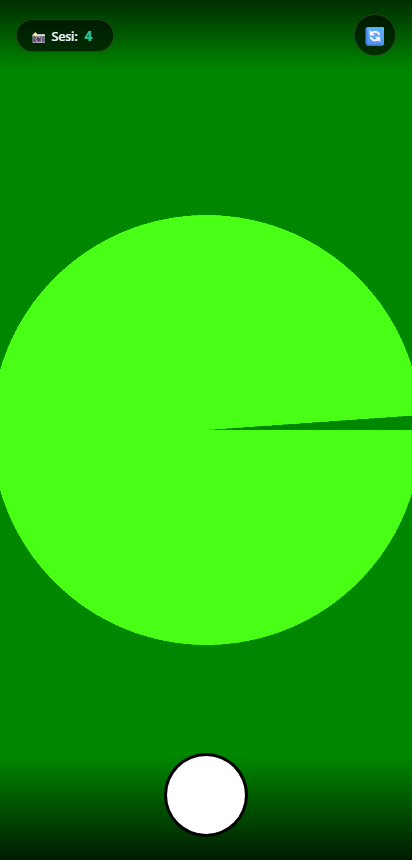
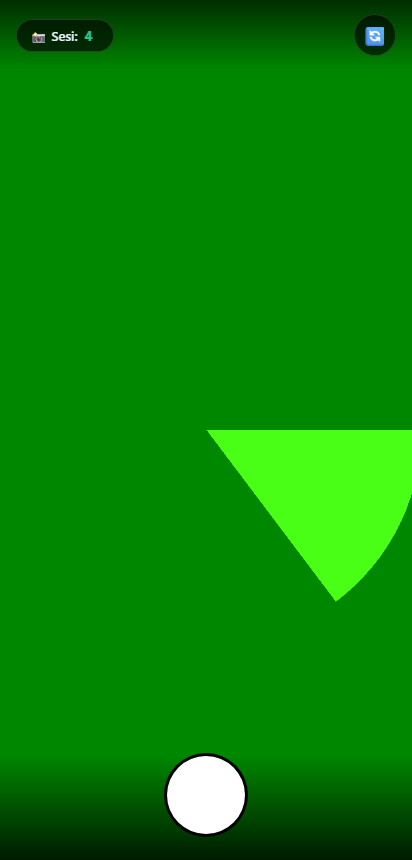
v2.0: pinch-to-zoom + tap-to-focus
- Pinch gesture drives MediaStreamTrack zoom constraint (graceful when unsupported)
- Single tap on preview = tap-to-focus (pointsOfInterest/focusMode) + visual focus ring
- Pointer-events tuned so taps pass through overlays to the live preview
- Android versionName 2.0 / versionCode 2
- Tests: 33 functional (incl. focus ring + safe zoom) + 21 stress, all green

diff --git a/android/app/src/main/assets/index.html b/android/app/src/main/assets/index.html
@@ -19,7 +19,7 @@
   #app{position:fixed;inset:0;display:flex;flex-direction:column}
 
   /* ---- Camera stage ---- */
-  #stage{position:relative;flex:1;background:#000;overflow:hidden}
+  #stage{position:relative;flex:1;background:#000;overflow:hidden;touch-action:none}
   #video,#shot{position:absolute;inset:0;width:100%;height:100%;object-fit:cover}
   #shot{display:none}
 
@@ -27,7 +27,8 @@
   #topbar{position:absolute;top:0;left:0;right:0;z-index:5;display:flex;
     justify-content:space-between;align-items:center;padding:14px 16px;
     padding-top:max(14px,env(safe-area-inset-top));
-    background:linear-gradient(#000a,transparent)}
+    background:linear-gradient(#000a,transparent);pointer-events:none}
+  #topbar button{pointer-events:auto}
   .pill{background:#0009;backdrop-filter:blur(6px);border:1px solid #ffffff22;
     border-radius:999px;padding:7px 13px;font-size:13px;font-weight:600;display:flex;
     align-items:center;gap:7px}
@@ -41,7 +42,8 @@
   #shutterRow{position:absolute;bottom:0;left:0;right:0;z-index:5;display:flex;
     align-items:center;justify-content:space-around;
     padding:0 24px 26px;padding-bottom:max(26px,env(safe-area-inset-bottom));
-    background:linear-gradient(transparent,#000c)}
+    background:linear-gradient(transparent,#000c);pointer-events:none}
+  #shutterRow button{pointer-events:auto}
   #shutter{width:78px;height:78px;border-radius:50%;background:#fff;border:5px solid #ffffff55;
     box-shadow:0 0 0 3px #000}
   #shutter:active{transform:scale(.9)}
@@ -51,6 +53,19 @@
   #flash{position:absolute;inset:0;background:#fff;opacity:0;z-index:8;pointer-events:none}
   #flash.fire{animation:fl .22s ease-out}
   @keyframes fl{0%{opacity:.85}100%{opacity:0}}
+
+  /* Tap-to-focus ring */
+  #focusRing{position:absolute;width:78px;height:78px;margin:-39px 0 0 -39px;z-index:6;
+    border:2px solid #fff;border-radius:50%;box-shadow:0 0 0 1px #0007;opacity:0;
+    pointer-events:none}
+  #focusRing.show{animation:fr .65s ease-out}
+  @keyframes fr{0%{opacity:0;transform:scale(1.6)}25%{opacity:1}60%{opacity:1;transform:scale(1)}100%{opacity:0}}
+
+  /* Zoom indicator */
+  #zoomInd{position:absolute;top:74px;left:50%;transform:translateX(-50%);z-index:6;
+    background:#000a;border:1px solid #ffffff22;border-radius:999px;padding:5px 12px;
+    font-size:13px;font-weight:700;color:#fff;opacity:0;pointer-events:none;transition:.15s}
+  #zoomInd.show{opacity:1}
 
   /* Toast */
   #toast{position:absolute;top:50%;left:50%;transform:translate(-50%,-50%) scale(.8);
@@ -99,6 +114,8 @@
   <div id="stage">
     <video id="video" autoplay playsinline muted></video>
     <canvas id="shot" hidden></canvas>
+    <div id="focusRing"></div>
+    <div id="zoomInd"></div>
     <div id="flash"></div>
     <div id="toast"></div>
 
@@ -139,7 +156,7 @@
   <div id="start">
     <div class="logo">📷</div>
     <h1>Snap &amp; Name</h1>
-    <p>Jepret aset → langsung kasih nama → simpan. Khusus stock opname biar ga ketuker file.</p>
+    <p>Jepret aset → langsung kasih nama → simpan. Khusus stock opname biar ga ketuker file.<br><span style="color:var(--muted)">Cubit layar untuk zoom · ketuk untuk fokus</span></p>
     <button id="startBtn">Nyalakan Kamera</button>
     <div class="err" id="startErr"></div>
     <div id="demoNote" style="color:#f4c84a;font-size:13px;max-width:300px"></div>
@@ -215,6 +232,7 @@ async function startCam(){
     track = stream.getVideoTracks()[0];
     $('#start').style.display='none';
     checkTorch();
+    initCamControls();
   }catch(e){
     $('#startErr').textContent='Kamera ga bisa dibuka: '+e.message+
       '. Pastikan izin kamera diizinkan.';
@@ -226,6 +244,78 @@ function checkTorch(){
   const caps = track && track.getCapabilities ? track.getCapabilities() : {};
   $('#torchBtn').style.display = (caps && caps.torch) ? 'flex' : 'none';
 }
+
+/* ---------- zoom & tap-to-focus (v2.0) ---------- */
+const focusRing=$('#focusRing'), zoomInd=$('#zoomInd');
+let zoomCap=null, curZoom=1, supportsFocusPoint=false;
+
+function initCamControls(){
+  const caps = track && track.getCapabilities ? track.getCapabilities() : {};
+  zoomCap = (caps && caps.zoom && caps.zoom.max>caps.zoom.min) ? caps.zoom : null;  // {min,max,step}
+  curZoom = (track.getSettings && track.getSettings().zoom) || (zoomCap ? zoomCap.min : 1);
+  supportsFocusPoint = !!(caps && (caps.focusMode || ('pointsOfInterest' in caps)));
+}
+
+let zoomIndT;
+function showZoom(){
+  zoomInd.textContent = curZoom.toFixed(1)+'x';
+  zoomInd.classList.add('show');
+  clearTimeout(zoomIndT); zoomIndT=setTimeout(()=>zoomInd.classList.remove('show'),900);
+}
+async function setZoom(z){
+  if(!zoomCap) return;
+  z = Math.min(zoomCap.max, Math.max(zoomCap.min, z));
+  if(Math.abs(z-curZoom)<1e-3) return;
+  curZoom = z;
+  try{ await track.applyConstraints({advanced:[{zoom:z}]}); showZoom(); }catch(e){}
+}
+
+async function focusAt(clientX, clientY){
+  const r = video.getBoundingClientRect();
+  // ring di titik tap (visual feedback selalu muncul)
+  focusRing.style.left = (clientX - r.left) + 'px';
+  focusRing.style.top  = (clientY - r.top) + 'px';
+  focusRing.classList.remove('show'); void focusRing.offsetWidth; focusRing.classList.add('show');
+  // coba fokus beneran kalau HP dukung (titik 0..1 + single-shot)
+  if(!track || !track.applyConstraints) return;
+  const x = Math.min(1, Math.max(0, (clientX - r.left)/r.width));
+  const y = Math.min(1, Math.max(0, (clientY - r.top)/r.height));
+  const tries = [
+    {advanced:[{focusMode:'single-shot', pointsOfInterest:[{x,y}]}]},
+    {advanced:[{pointsOfInterest:[{x,y}]}]},
+    {advanced:[{focusMode:'continuous'}]}
+  ];
+  for(const c of tries){ try{ await track.applyConstraints(c); break; }catch(e){} }
+}
+
+// Gesture di preview hidup: cubit (pinch) = zoom, satu tap = fokus.
+(function bindGestures(){
+  const pts = new Map();
+  let pinchStartDist=0, pinchStartZoom=1, pinching=false, tap=null;
+  const dist=()=>{ const a=[...pts.values()]; return Math.hypot(a[0].x-a[1].x, a[0].y-a[1].y); };
+  video.addEventListener('pointerdown', e=>{
+    pts.set(e.pointerId,{x:e.clientX,y:e.clientY});
+    if(pts.size===1){ tap={x:e.clientX,y:e.clientY,t:Date.now(),moved:false}; }
+    else if(pts.size===2){ pinching=true; tap=null; pinchStartDist=dist()||1; pinchStartZoom=curZoom; }
+  });
+  video.addEventListener('pointermove', e=>{
+    if(!pts.has(e.pointerId)) return;
+    const p=pts.get(e.pointerId);
+    if(tap && pts.size===1 && Math.hypot(e.clientX-tap.x, e.clientY-tap.y)>12) tap.moved=true;
+    p.x=e.clientX; p.y=e.clientY;
+    if(pinching && pts.size===2 && zoomCap){ setZoom(pinchStartZoom * (dist()/pinchStartDist)); }
+  });
+  function up(e){
+    pts.delete(e.pointerId);
+    if(pts.size<2) pinching=false;
+    if(pts.size===0){
+      if(tap && !tap.moved && (Date.now()-tap.t)<500) focusAt(tap.x, tap.y);
+      tap=null;
+    }
+  }
+  video.addEventListener('pointerup', up);
+  video.addEventListener('pointercancel', e=>{ pts.delete(e.pointerId); if(pts.size<2) pinching=false; tap=null; });
+})();
 
 $('#flipBtn').onclick = ()=>{ facing = facing==='environment'?'user':'environment'; torchOn=false; $('#torchBtn').classList.remove('on'); startCam(); };
 $('#torchBtn').onclick = async ()=>{

diff --git a/index.html b/index.html
@@ -19,7 +19,7 @@
   #app{position:fixed;inset:0;display:flex;flex-direction:column}
 
   /* ---- Camera stage ---- */
-  #stage{position:relative;flex:1;background:#000;overflow:hidden}
+  #stage{position:relative;flex:1;background:#000;overflow:hidden;touch-action:none}
   #video,#shot{position:absolute;inset:0;width:100%;height:100%;object-fit:cover}
   #shot{display:none}
 
@@ -27,7 +27,8 @@
   #topbar{position:absolute;top:0;left:0;right:0;z-index:5;display:flex;
     justify-content:space-between;align-items:center;padding:14px 16px;
     padding-top:max(14px,env(safe-area-inset-top));
-    background:linear-gradient(#000a,transparent)}
+    background:linear-gradient(#000a,transparent);pointer-events:none}
+  #topbar button{pointer-events:auto}
   .pill{background:#0009;backdrop-filter:blur(6px);border:1px solid #ffffff22;
     border-radius:999px;padding:7px 13px;font-size:13px;font-weight:600;display:flex;
     align-items:center;gap:7px}
@@ -41,7 +42,8 @@
   #shutterRow{position:absolute;bottom:0;left:0;right:0;z-index:5;display:flex;
     align-items:center;justify-content:space-around;
     padding:0 24px 26px;padding-bottom:max(26px,env(safe-area-inset-bottom));
-    background:linear-gradient(transparent,#000c)}
+    background:linear-gradient(transparent,#000c);pointer-events:none}
+  #shutterRow button{pointer-events:auto}
   #shutter{width:78px;height:78px;border-radius:50%;background:#fff;border:5px solid #ffffff55;
     box-shadow:0 0 0 3px #000}
   #shutter:active{transform:scale(.9)}
@@ -51,6 +53,19 @@
   #flash{position:absolute;inset:0;background:#fff;opacity:0;z-index:8;pointer-events:none}
   #flash.fire{animation:fl .22s ease-out}
   @keyframes fl{0%{opacity:.85}100%{opacity:0}}
+
+  /* Tap-to-focus ring */
+  #focusRing{position:absolute;width:78px;height:78px;margin:-39px 0 0 -39px;z-index:6;
+    border:2px solid #fff;border-radius:50%;box-shadow:0 0 0 1px #0007;opacity:0;
+    pointer-events:none}
+  #focusRing.show{animation:fr .65s ease-out}
+  @keyframes fr{0%{opacity:0;transform:scale(1.6)}25%{opacity:1}60%{opacity:1;transform:scale(1)}100%{opacity:0}}
+
+  /* Zoom indicator */
+  #zoomInd{position:absolute;top:74px;left:50%;transform:translateX(-50%);z-index:6;
+    background:#000a;border:1px solid #ffffff22;border-radius:999px;padding:5px 12px;
+    font-size:13px;font-weight:700;color:#fff;opacity:0;pointer-events:none;transition:.15s}
+  #zoomInd.show{opacity:1}
 
   /* Toast */
   #toast{position:absolute;top:50%;left:50%;transform:translate(-50%,-50%) scale(.8);
@@ -99,6 +114,8 @@
   <div id="stage">
     <video id="video" autoplay playsinline muted></video>
     <canvas id="shot" hidden></canvas>
+    <div id="focusRing"></div>
+    <div id="zoomInd"></div>
     <div id="flash"></div>
     <div id="toast"></div>
 
@@ -139,7 +156,7 @@
   <div id="start">
     <div class="logo">📷</div>
     <h1>Snap &amp; Name</h1>
-    <p>Jepret aset → langsung kasih nama → simpan. Khusus stock opname biar ga ketuker file.</p>
+    <p>Jepret aset → langsung kasih nama → simpan. Khusus stock opname biar ga ketuker file.<br><span style="color:var(--muted)">Cubit layar untuk zoom · ketuk untuk fokus</span></p>
     <button id="startBtn">Nyalakan Kamera</button>
     <div class="err" id="startErr"></div>
     <div id="demoNote" style="color:#f4c84a;font-size:13px;max-width:300px"></div>
@@ -215,6 +232,7 @@ async function startCam(){
     track = stream.getVideoTracks()[0];
     $('#start').style.display='none';
     checkTorch();
+    initCamControls();
   }catch(e){
     $('#startErr').textContent='Kamera ga bisa dibuka: '+e.message+
       '. Pastikan izin kamera diizinkan.';
@@ -226,6 +244,78 @@ function checkTorch(){
   const caps = track && track.getCapabilities ? track.getCapabilities() : {};
   $('#torchBtn').style.display = (caps && caps.torch) ? 'flex' : 'none';
 }
+
+/* ---------- zoom & tap-to-focus (v2.0) ---------- */
+const focusRing=$('#focusRing'), zoomInd=$('#zoomInd');
+let zoomCap=null, curZoom=1, supportsFocusPoint=false;
+
+function initCamControls(){
+  const caps = track && track.getCapabilities ? track.getCapabilities() : {};
+  zoomCap = (caps && caps.zoom && caps.zoom.max>caps.zoom.min) ? caps.zoom : null;  // {min,max,step}
+  curZoom = (track.getSettings && track.getSettings().zoom) || (zoomCap ? zoomCap.min : 1);
+  supportsFocusPoint = !!(caps && (caps.focusMode || ('pointsOfInterest' in caps)));
+}
+
+let zoomIndT;
+function showZoom(){
+  zoomInd.textContent = curZoom.toFixed(1)+'x';
+  zoomInd.classList.add('show');
+  clearTimeout(zoomIndT); zoomIndT=setTimeout(()=>zoomInd.classList.remove('show'),900);
+}
+async function setZoom(z){
+  if(!zoomCap) return;
+  z = Math.min(zoomCap.max, Math.max(zoomCap.min, z));
+  if(Math.abs(z-curZoom)<1e-3) return;
+  curZoom = z;
+  try{ await track.applyConstraints({advanced:[{zoom:z}]}); showZoom(); }catch(e){}
+}
+
+async function focusAt(clientX, clientY){
+  const r = video.getBoundingClientRect();
+  // ring di titik tap (visual feedback selalu muncul)
+  focusRing.style.left = (clientX - r.left) + 'px';
+  focusRing.style.top  = (clientY - r.top) + 'px';
+  focusRing.classList.remove('show'); void focusRing.offsetWidth; focusRing.classList.add('show');
+  // coba fokus beneran kalau HP dukung (titik 0..1 + single-shot)
+  if(!track || !track.applyConstraints) return;
+  const x = Math.min(1, Math.max(0, (clientX - r.left)/r.width));
+  const y = Math.min(1, Math.max(0, (clientY - r.top)/r.height));
+  const tries = [
+    {advanced:[{focusMode:'single-shot', pointsOfInterest:[{x,y}]}]},
+    {advanced:[{pointsOfInterest:[{x,y}]}]},
+    {advanced:[{focusMode:'continuous'}]}
+  ];
+  for(const c of tries){ try{ await track.applyConstraints(c); break; }catch(e){} }
+}
+
+// Gesture di preview hidup: cubit (pinch) = zoom, satu tap = fokus.
+(function bindGestures(){
+  const pts = new Map();
+  let pinchStartDist=0, pinchStartZoom=1, pinching=false, tap=null;
+  const dist=()=>{ const a=[...pts.values()]; return Math.hypot(a[0].x-a[1].x, a[0].y-a[1].y); };
+  video.addEventListener('pointerdown', e=>{
+    pts.set(e.pointerId,{x:e.clientX,y:e.clientY});
+    if(pts.size===1){ tap={x:e.clientX,y:e.clientY,t:Date.now(),moved:false}; }
+    else if(pts.size===2){ pinching=true; tap=null; pinchStartDist=dist()||1; pinchStartZoom=curZoom; }
+  });
+  video.addEventListener('pointermove', e=>{
+    if(!pts.has(e.pointerId)) return;
+    const p=pts.get(e.pointerId);
+    if(tap && pts.size===1 && Math.hypot(e.clientX-tap.x, e.clientY-tap.y)>12) tap.moved=true;
+    p.x=e.clientX; p.y=e.clientY;
+    if(pinching && pts.size===2 && zoomCap){ setZoom(pinchStartZoom * (dist()/pinchStartDist)); }
+  });
+  function up(e){
+    pts.delete(e.pointerId);
+    if(pts.size<2) pinching=false;
+    if(pts.size===0){
+      if(tap && !tap.moved && (Date.now()-tap.t)<500) focusAt(tap.x, tap.y);
+      tap=null;
+    }
+  }
+  video.addEventListener('pointerup', up);
+  video.addEventListener('pointercancel', e=>{ pts.delete(e.pointerId); if(pts.size<2) pinching=false; tap=null; });
+})();
 
 $('#flipBtn').onclick = ()=>{ facing = facing==='environment'?'user':'environment'; torchOn=false; $('#torchBtn').classList.remove('on'); startCam(); };
 $('#torchBtn').onclick = async ()=>{

diff --git a/qa_test.py b/qa_test.py
@@ -49,6 +49,14 @@ with sync_playwright() as p:
     check("camera started (videoWidth>0)", ok, f"videoWidth={vw}")
     check("start overlay hidden after start", not page.is_visible("#start"))
 
+    print("\n=== V2: TAP-TO-FOCUS + ZOOM (graceful on fake cam) ===")
+    page.mouse.click(206, 430)  # tap middle of live preview -> focus ring
+    time.sleep(0.15)
+    check("tap shows focus ring", "show" in (page.get_attribute("#focusRing","class") or ""))
+    # pinch/zoom path must not throw even when device has no zoom capability
+    zerr = page.evaluate("(function(){ try{ setZoom(2.0); return 'ok'; }catch(e){ return e.message; } })()")
+    check("zoom call safe when unsupported", zerr=="ok", zerr)
+
     print("\n=== SHUTTER #1 -> NAME SHEET ===")
     shoot(page)
     check("name sheet opened", "open" in page.get_attribute("#sheet","class"))

diff --git a/README.md b/README.md
@@ -50,6 +50,9 @@ present it runs as the full offline app; on `*.github.io` it runs as a capped de
 - 🛡️ **Anti-duplicate guard** — repeated names auto-suffix `-2`, `-3` (O(1) via a counter map
   + a `Set` for correctness), so files never silently overwrite
 - 🧮 Daily session counter that resets at midnight (persisted in `localStorage`)
+- 🔍 **Pinch-to-zoom & tap-to-focus** (v2.0) — driven by native `MediaStreamTrack`
+  capability constraints (`zoom`, `pointsOfInterest`, `focusMode`) with graceful fallback
+  on devices that don't expose them
 - 🔦 Torch toggle (when supported), front/back camera flip
 - 🧼 Filename sanitisation (illegal characters, length cap for Android filesystems)
 - 📴 Works in airplane mode; installable to the home screen as a PWA